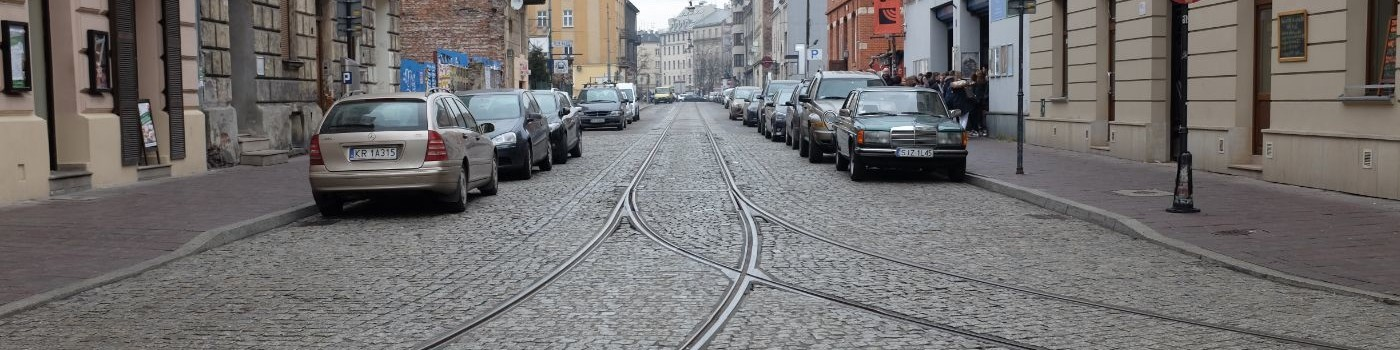
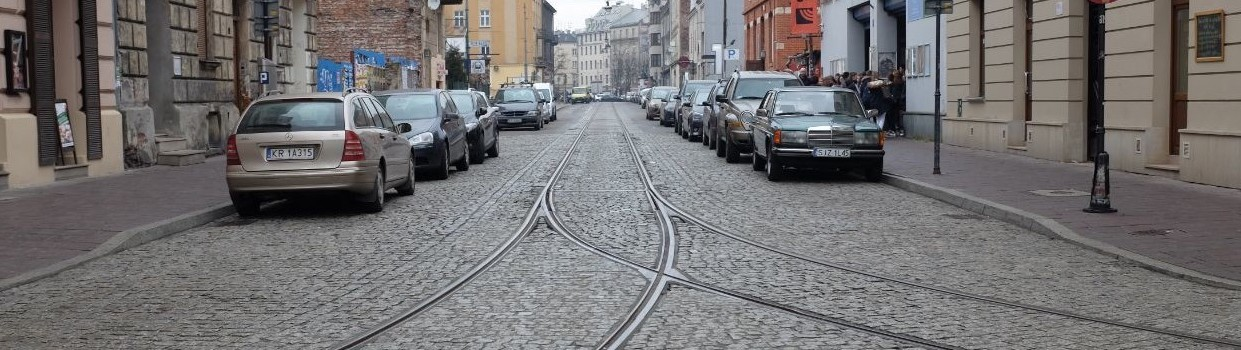
Update size for header image

diff --git a/_sass/minima.scss b/_sass/minima.scss
@@ -22,10 +22,10 @@ $green: green !default;
 $table-text-align: left !default;
 
 // Width of the content area
-$content-width:    1400px !default;
+$content-width:    1200px !default;
 
 $on-palm:          600px !default;
-$on-laptop:        1400px !default;
+$on-laptop:        1200px !default;
 
 // Use media queries like this:
 // @include media-query($on-palm) {
